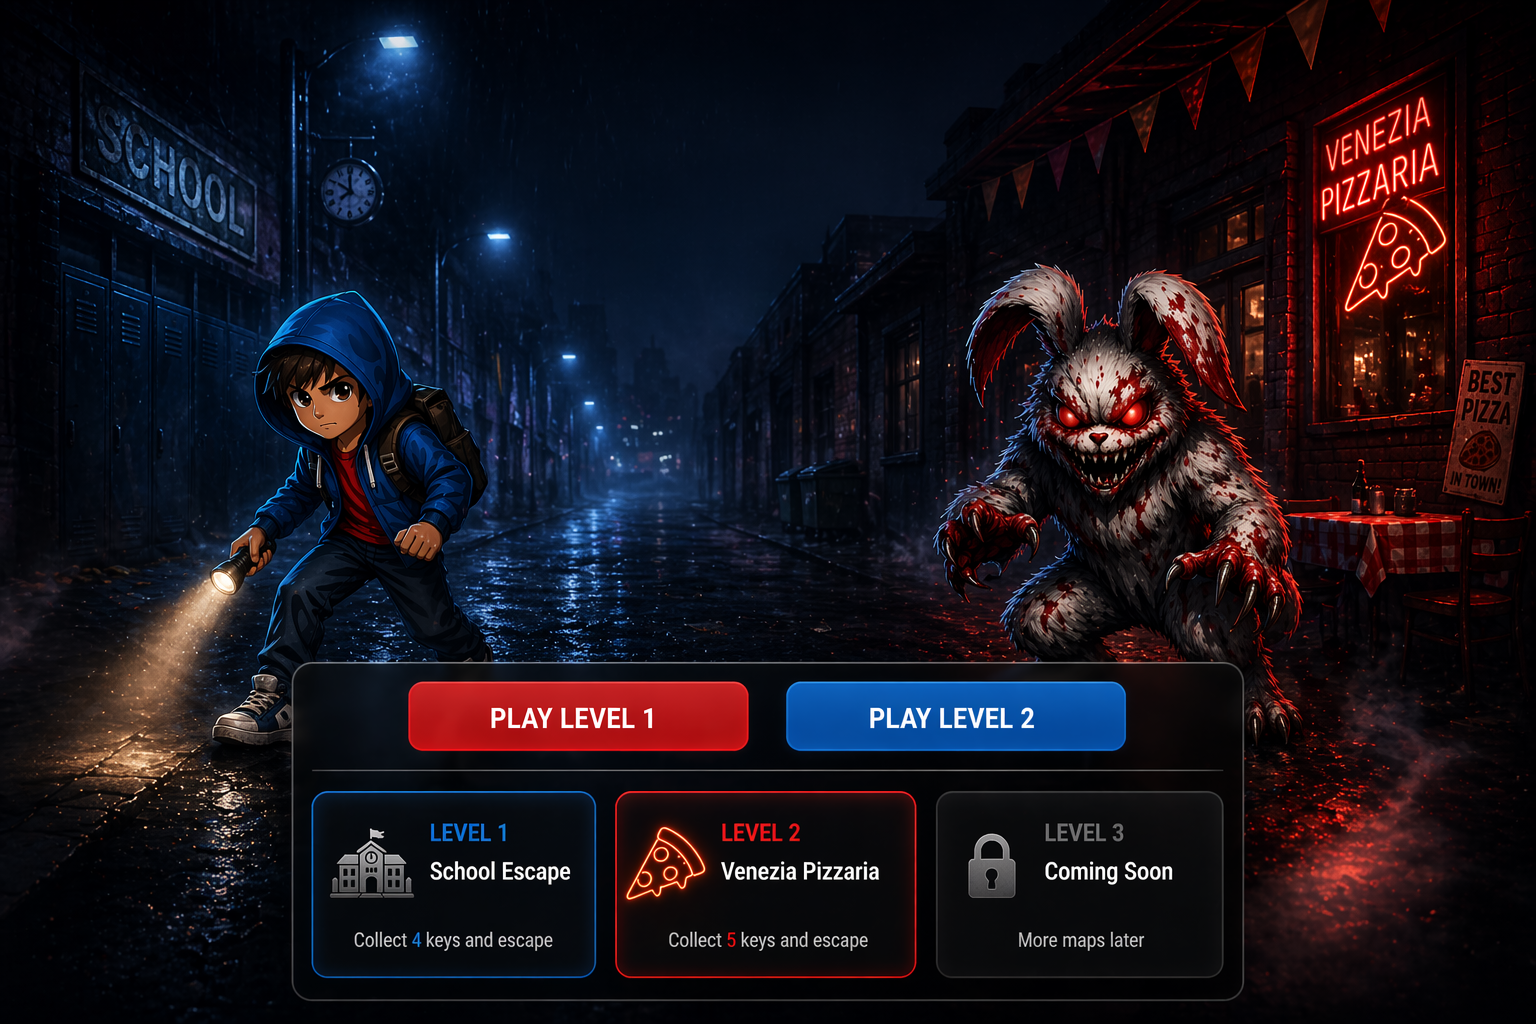
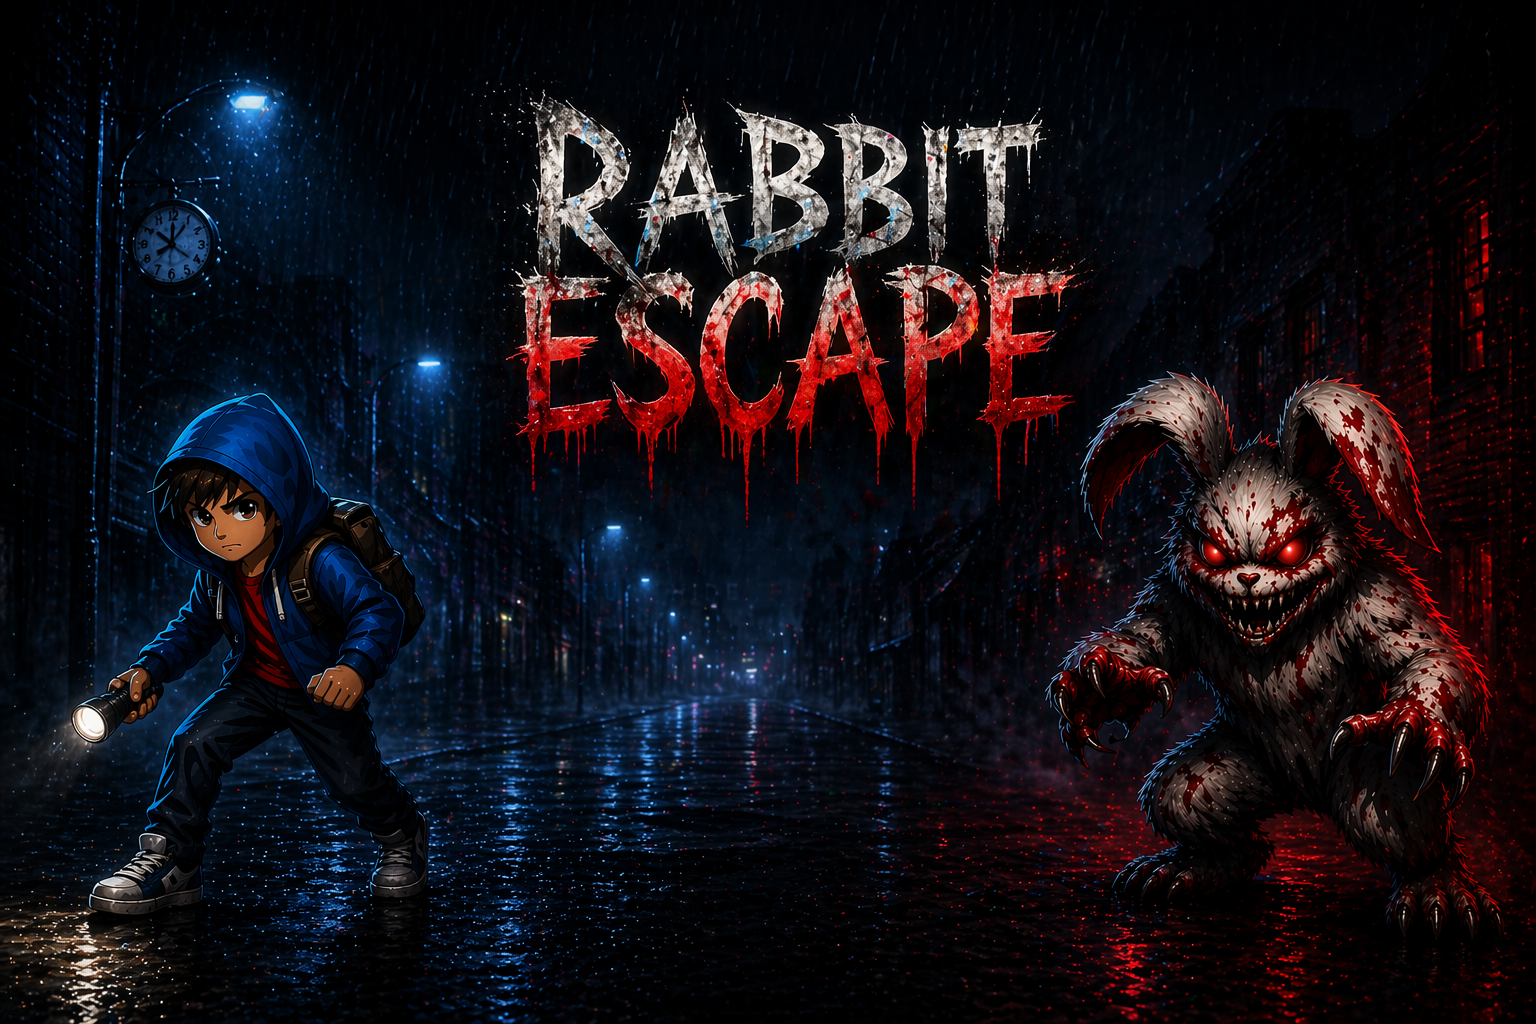
ok

diff --git a/style.css b/style.css
@@ -21,8 +21,8 @@ body::before {
   position: fixed;
   inset: 0;
   background:
-    radial-gradient(circle at center, rgba(0, 0, 0, 0.05), rgba(0, 0, 0, 0.45)),
-    linear-gradient(to bottom, rgba(0, 0, 0, 0.08), rgba(0, 0, 0, 0.35));
+    radial-gradient(circle at center, rgba(0, 0, 0, 0.02), rgba(0, 0, 0, 0.22) 70%, rgba(0, 0, 0, 0.5)),
+    linear-gradient(to bottom, rgba(0, 0, 0, 0.01), rgba(0, 0, 0, 0.22));
   pointer-events: none;
 }
 
@@ -30,116 +30,146 @@ body::before {
   position: relative;
   z-index: 1;
   min-height: 100vh;
+}
+
+.menu-panel {
+  position: absolute;
+  left: 50%;
+  top: 67%;
+  transform: translateX(-50%);
+  width: min(420px, 88vw);
   display: grid;
-  place-items: center;
-  padding: 24px;
+  gap: 16px;
 }
 
-.menu-box {
-  width: min(720px, 92vw);
-  text-align: center;
-  padding: 44px 30px;
-  border-radius: 30px;
-  background: rgba(2, 6, 12, 0.5);
-  border: 1px solid rgba(255, 255, 255, 0.18);
-  backdrop-filter: blur(6px);
-  box-shadow: 0 28px 80px rgba(0, 0, 0, 0.58);
-}
-
-h1 {
-  margin: 0;
-  font-family: Georgia, "Times New Roman", serif;
-  font-size: clamp(4rem, 11vw, 8rem);
-  line-height: 0.9;
-  text-transform: uppercase;
-  letter-spacing: 0.05em;
-  color: #f4fff9;
-  text-shadow:
-    0 0 12px rgba(255, 255, 255, 0.22),
-    0 0 34px rgba(70, 255, 180, 0.26),
-    0 12px 36px black;
-}
-
-.menu-box p {
-  margin: 20px 0 32px;
-  color: #d8e2ef;
-  font-size: 1.15rem;
-  font-weight: 800;
-  text-shadow: 0 3px 12px black;
-}
-
-.play-btn,
-.small-btn {
-  border: 0;
-  font: inherit;
-  font-weight: 900;
-  cursor: pointer;
+.menu-btn {
+  min-height: 62px;
+  border-radius: 16px;
+  border: 1px solid rgba(255, 255, 255, 0.46);
   color: white;
-}
-
-.play-btn {
-  display: block;
-  width: min(340px, 100%);
-  margin: 0 auto 14px;
-  padding: 20px 28px;
-  border-radius: 18px;
-  font-size: 1.6rem;
+  font: inherit;
+  font-size: clamp(1.2rem, 2.2vw, 1.65rem);
+  font-weight: 900;
+  letter-spacing: 0.08em;
   text-transform: uppercase;
-  letter-spacing: 0.06em;
-  background: linear-gradient(180deg, #178fff, #0056bd);
-  border: 1px solid rgba(150, 215, 255, 0.8);
-  box-shadow:
-    0 18px 44px rgba(0, 102, 255, 0.36),
-    inset 0 0 0 1px rgba(255, 255, 255, 0.22);
-  transition: transform 0.16s ease, filter 0.16s ease;
+  cursor: pointer;
+  text-shadow: 0 3px 12px black;
+  backdrop-filter: blur(4px);
+  -webkit-backdrop-filter: blur(4px);
+  transition: transform 0.16s ease, filter 0.16s ease, box-shadow 0.16s ease;
 }
 
-.play-btn:hover {
+.menu-btn:hover,
+.menu-btn:focus-visible {
+  outline: none;
   transform: translateY(-3px) scale(1.03);
-  filter: brightness(1.14);
+  filter: brightness(1.15);
 }
 
-.small-btn {
-  padding: 11px 16px;
-  border-radius: 999px;
-  background: rgba(255, 255, 255, 0.1);
-  color: rgba(255, 255, 255, 0.82);
-  border: 1px solid rgba(255, 255, 255, 0.2);
+.play {
+  background: linear-gradient(180deg, rgba(190, 22, 35, 0.92), rgba(105, 6, 15, 0.92));
+  box-shadow:
+    0 16px 40px rgba(255, 0, 25, 0.26),
+    inset 0 0 0 1px rgba(255, 255, 255, 0.18);
 }
 
-.small-btn:hover {
-  background: rgba(255, 255, 255, 0.18);
+.play:hover,
+.play:focus-visible {
+  box-shadow:
+    0 20px 50px rgba(255, 0, 25, 0.42),
+    0 0 34px rgba(255, 30, 45, 0.34);
 }
 
+.read {
+  background: linear-gradient(180deg, rgba(20, 115, 205, 0.9), rgba(5, 45, 115, 0.92));
+  box-shadow:
+    0 16px 40px rgba(0, 106, 255, 0.24),
+    inset 0 0 0 1px rgba(255, 255, 255, 0.16);
+}
+
+.read:hover,
+.read:focus-visible {
+  box-shadow:
+    0 20px 50px rgba(0, 106, 255, 0.38),
+    0 0 34px rgba(50, 160, 255, 0.32);
+}
+
+.read-panel,
 .loading {
   position: fixed;
   inset: 0;
   display: grid;
   place-items: center;
-  background: rgba(0, 0, 0, 0.9);
   opacity: 0;
   pointer-events: none;
-  transition: opacity 0.25s ease;
+  transition: opacity 0.22s ease;
 }
 
+.read-panel {
+  background: rgba(0, 0, 0, 0.68);
+}
+
+.read-panel.show,
 .loading.show {
   opacity: 1;
   pointer-events: auto;
 }
 
-.loading p {
-  margin-top: 18px;
+.read-card {
+  width: min(560px, 90vw);
+  padding: 30px;
+  border-radius: 24px;
+  background: rgba(5, 8, 14, 0.9);
+  border: 1px solid rgba(255, 255, 255, 0.22);
+  box-shadow: 0 30px 80px rgba(0, 0, 0, 0.6);
+  text-align: center;
+}
+
+.read-card h2 {
+  margin: 0 0 16px;
+  font-size: 2rem;
+  text-transform: uppercase;
+  letter-spacing: 0.08em;
+}
+
+.read-card p {
+  color: #d9e3ef;
+  line-height: 1.6;
+  font-weight: 700;
+}
+
+.close-btn {
+  margin-top: 12px;
+  padding: 13px 24px;
+  border-radius: 999px;
+  border: 1px solid rgba(255, 255, 255, 0.38);
+  background: rgba(255, 255, 255, 0.1);
+  color: white;
+  font: inherit;
+  font-weight: 900;
+  cursor: pointer;
+}
+
+.close-btn:hover {
+  background: rgba(255, 255, 255, 0.18);
+}
+
+.loading {
+  z-index: 10;
+  background: rgba(0, 0, 0, 0.9);
+  text-align: center;
   font-weight: 900;
   text-transform: uppercase;
   letter-spacing: 0.08em;
 }
 
-.spinner {
+.loader {
   width: 66px;
   height: 66px;
+  margin: 0 auto 18px;
   border-radius: 50%;
   border: 5px solid rgba(255, 255, 255, 0.18);
-  border-top-color: #62ffb7;
+  border-top-color: #ff2538;
   animation: spin 0.8s linear infinite;
 }
 
@@ -149,12 +179,12 @@ h1 {
   }
 }
 
-@media (max-width: 600px) {
-  .menu-box {
-    padding: 34px 18px;
+@media (max-width: 700px) {
+  .menu-panel {
+    top: 65%;
   }
 
-  .play-btn {
-    font-size: 1.3rem;
+  .menu-btn {
+    min-height: 56px;
   }
 }

diff --git a/script.js b/script.js
@@ -1,26 +1,41 @@
 const playBtn = document.getElementById("playBtn");
-const viewBgBtn = document.getElementById("viewBgBtn");
+const readBtn = document.getElementById("readBtn");
+const closeReadBtn = document.getElementById("closeReadBtn");
+const readPanel = document.getElementById("readPanel");
 const loading = document.getElementById("loading");
 
 function startGame() {
   playBtn.disabled = true;
+  readBtn.disabled = true;
   playBtn.textContent = "Loading...";
 
   loading.classList.add("show");
+  loading.setAttribute("aria-hidden", "false");
 
   setTimeout(() => {
     window.location.href = "./school/";
   }, 650);
 }
 
-playBtn.addEventListener("click", startGame);
+function openReadMe() {
+  readPanel.classList.add("show");
+  readPanel.setAttribute("aria-hidden", "false");
+}
 
-viewBgBtn.addEventListener("click", () => {
-  window.open("./assets/menu-bg-clean.jpg", "_blank");
+function closeReadMe() {
+  readPanel.classList.remove("show");
+  readPanel.setAttribute("aria-hidden", "true");
+}
+
+playBtn.addEventListener("click", startGame);
+readBtn.addEventListener("click", openReadMe);
+closeReadBtn.addEventListener("click", closeReadMe);
+
+readPanel.addEventListener("click", (event) => {
+  if (event.target === readPanel) closeReadMe();
 });
 
 window.addEventListener("keydown", (event) => {
-  if (event.key === "Enter") {
-    startGame();
-  }
+  if (event.key === "Escape") closeReadMe();
+  if (event.key === "Enter" && !readPanel.classList.contains("show")) startGame();
 });

diff --git a/index.html b/index.html
@@ -8,18 +8,24 @@
 </head>
 <body>
   <main class="menu">
-    <section class="menu-box">
-      <h1>Rabbit Escape</h1>
-      <p>Run. Hide. Find the keys.</p>
-
-      <button id="playBtn" class="play-btn">Play Game</button>
-      <button id="viewBgBtn" class="small-btn">View Background</button>
+    <section class="menu-panel">
+      <button id="playBtn" class="menu-btn play">Play Game</button>
+      <button id="readBtn" class="menu-btn read">Read Me</button>
     </section>
 
-    <div id="loading" class="loading">
-      <div class="spinner"></div>
-      <p>Entering school...</p>
-    </div>
+    <section id="readPanel" class="read-panel" aria-hidden="true">
+      <div class="read-card">
+        <h2>Read Me</h2>
+        <p>Find the keys, move room to room, and escape before the killer rabbit catches you.</p>
+        <p>Click rooms to move. Watch your danger bar. Use your chances wisely.</p>
+        <button id="closeReadBtn" class="close-btn">Close</button>
+      </div>
+    </section>
+
+    <section id="loading" class="loading" aria-hidden="true">
+      <div class="loader"></div>
+      <p>Entering the school...</p>
+    </section>
   </main>
 
   <script src="./script.js"></script>
